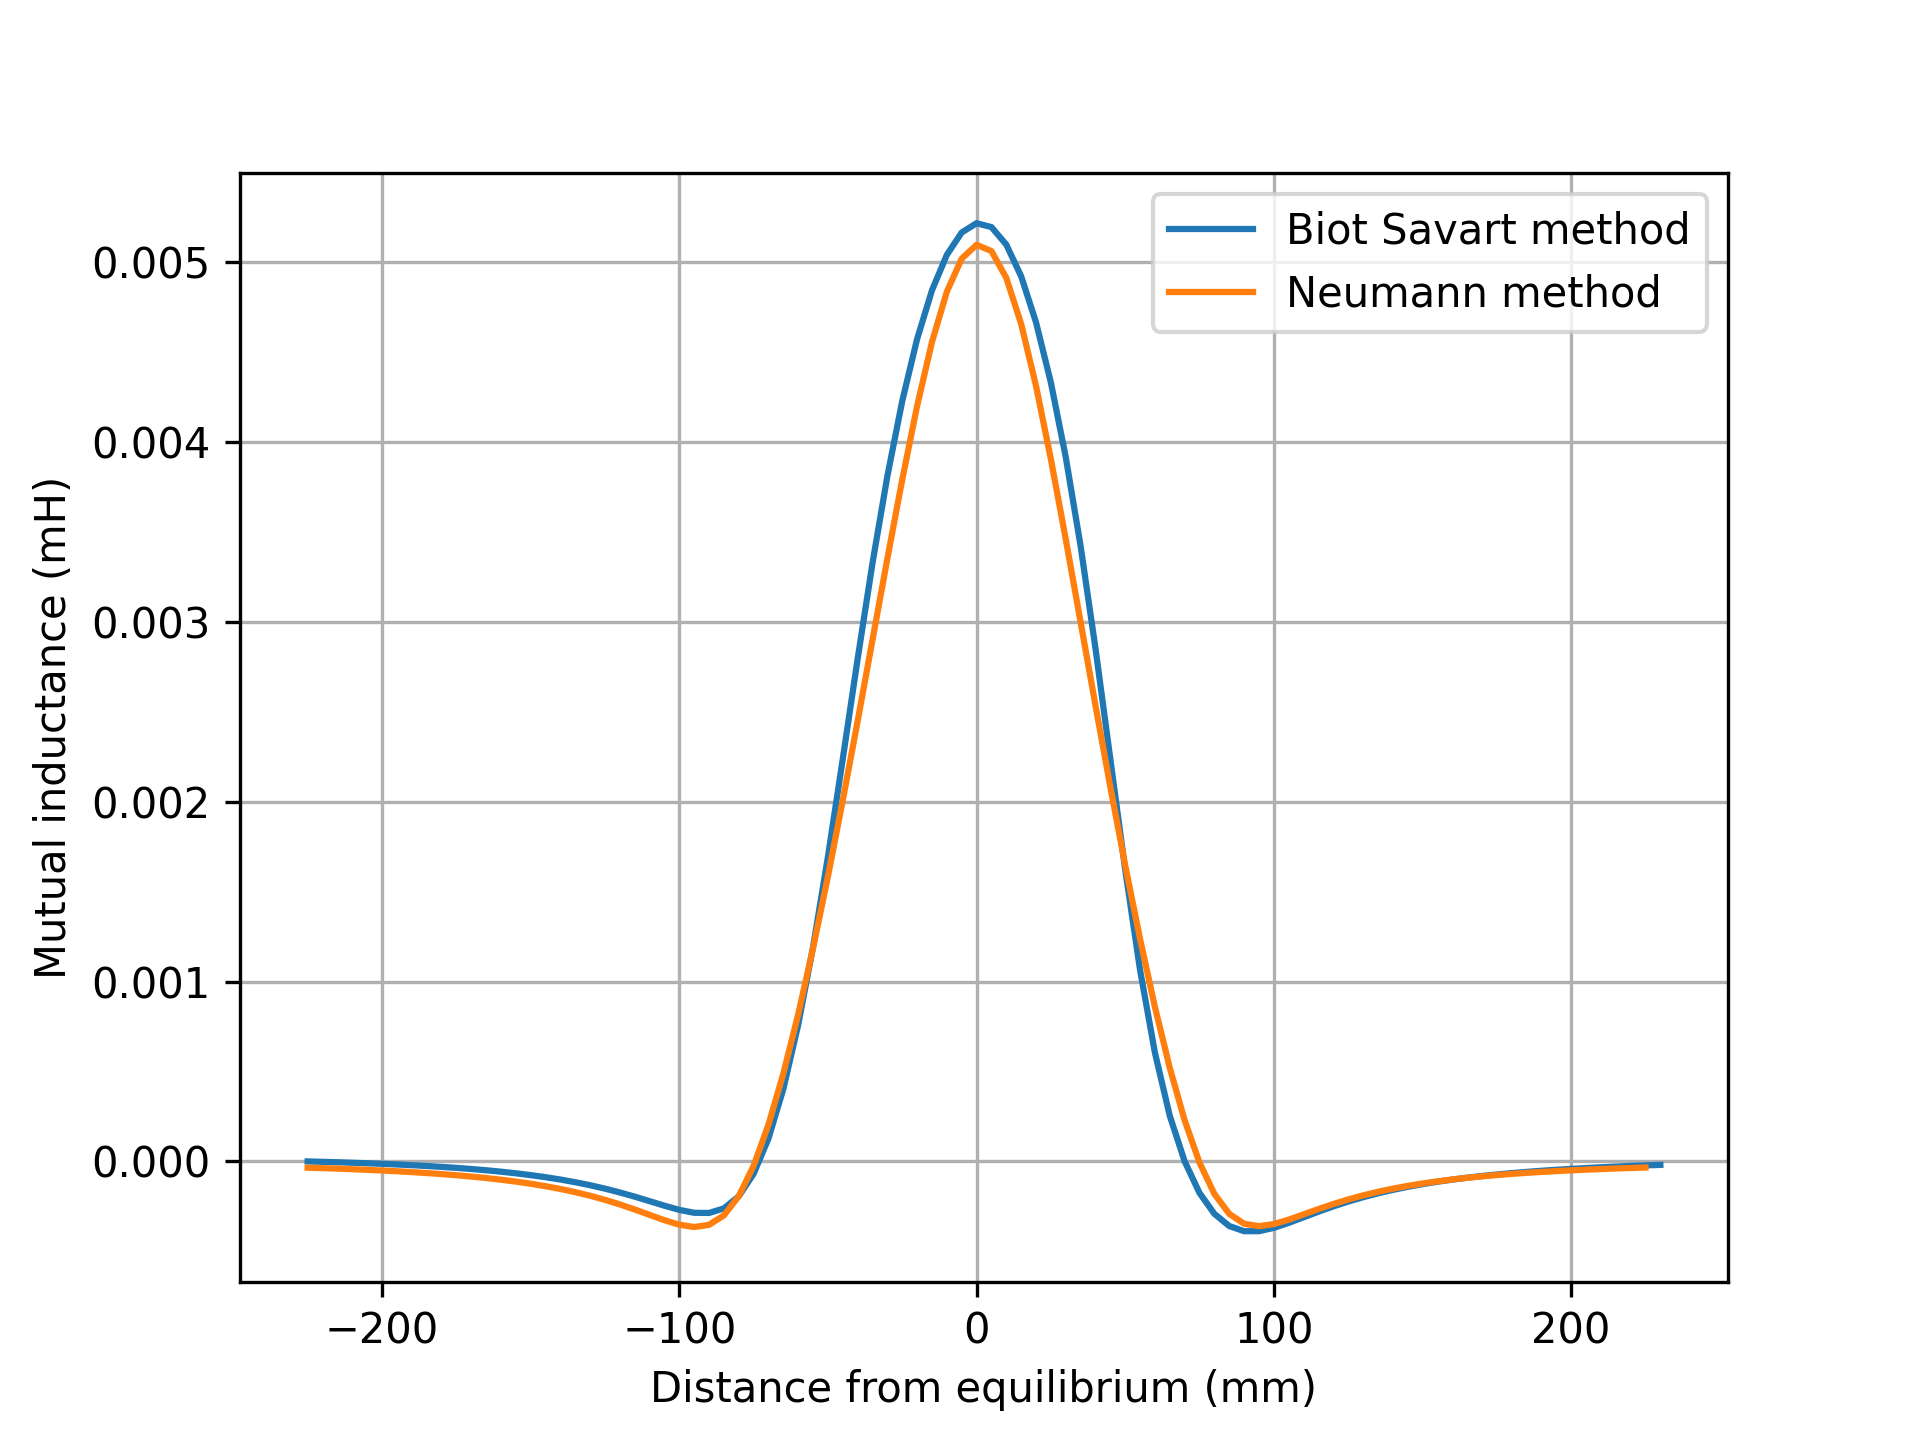
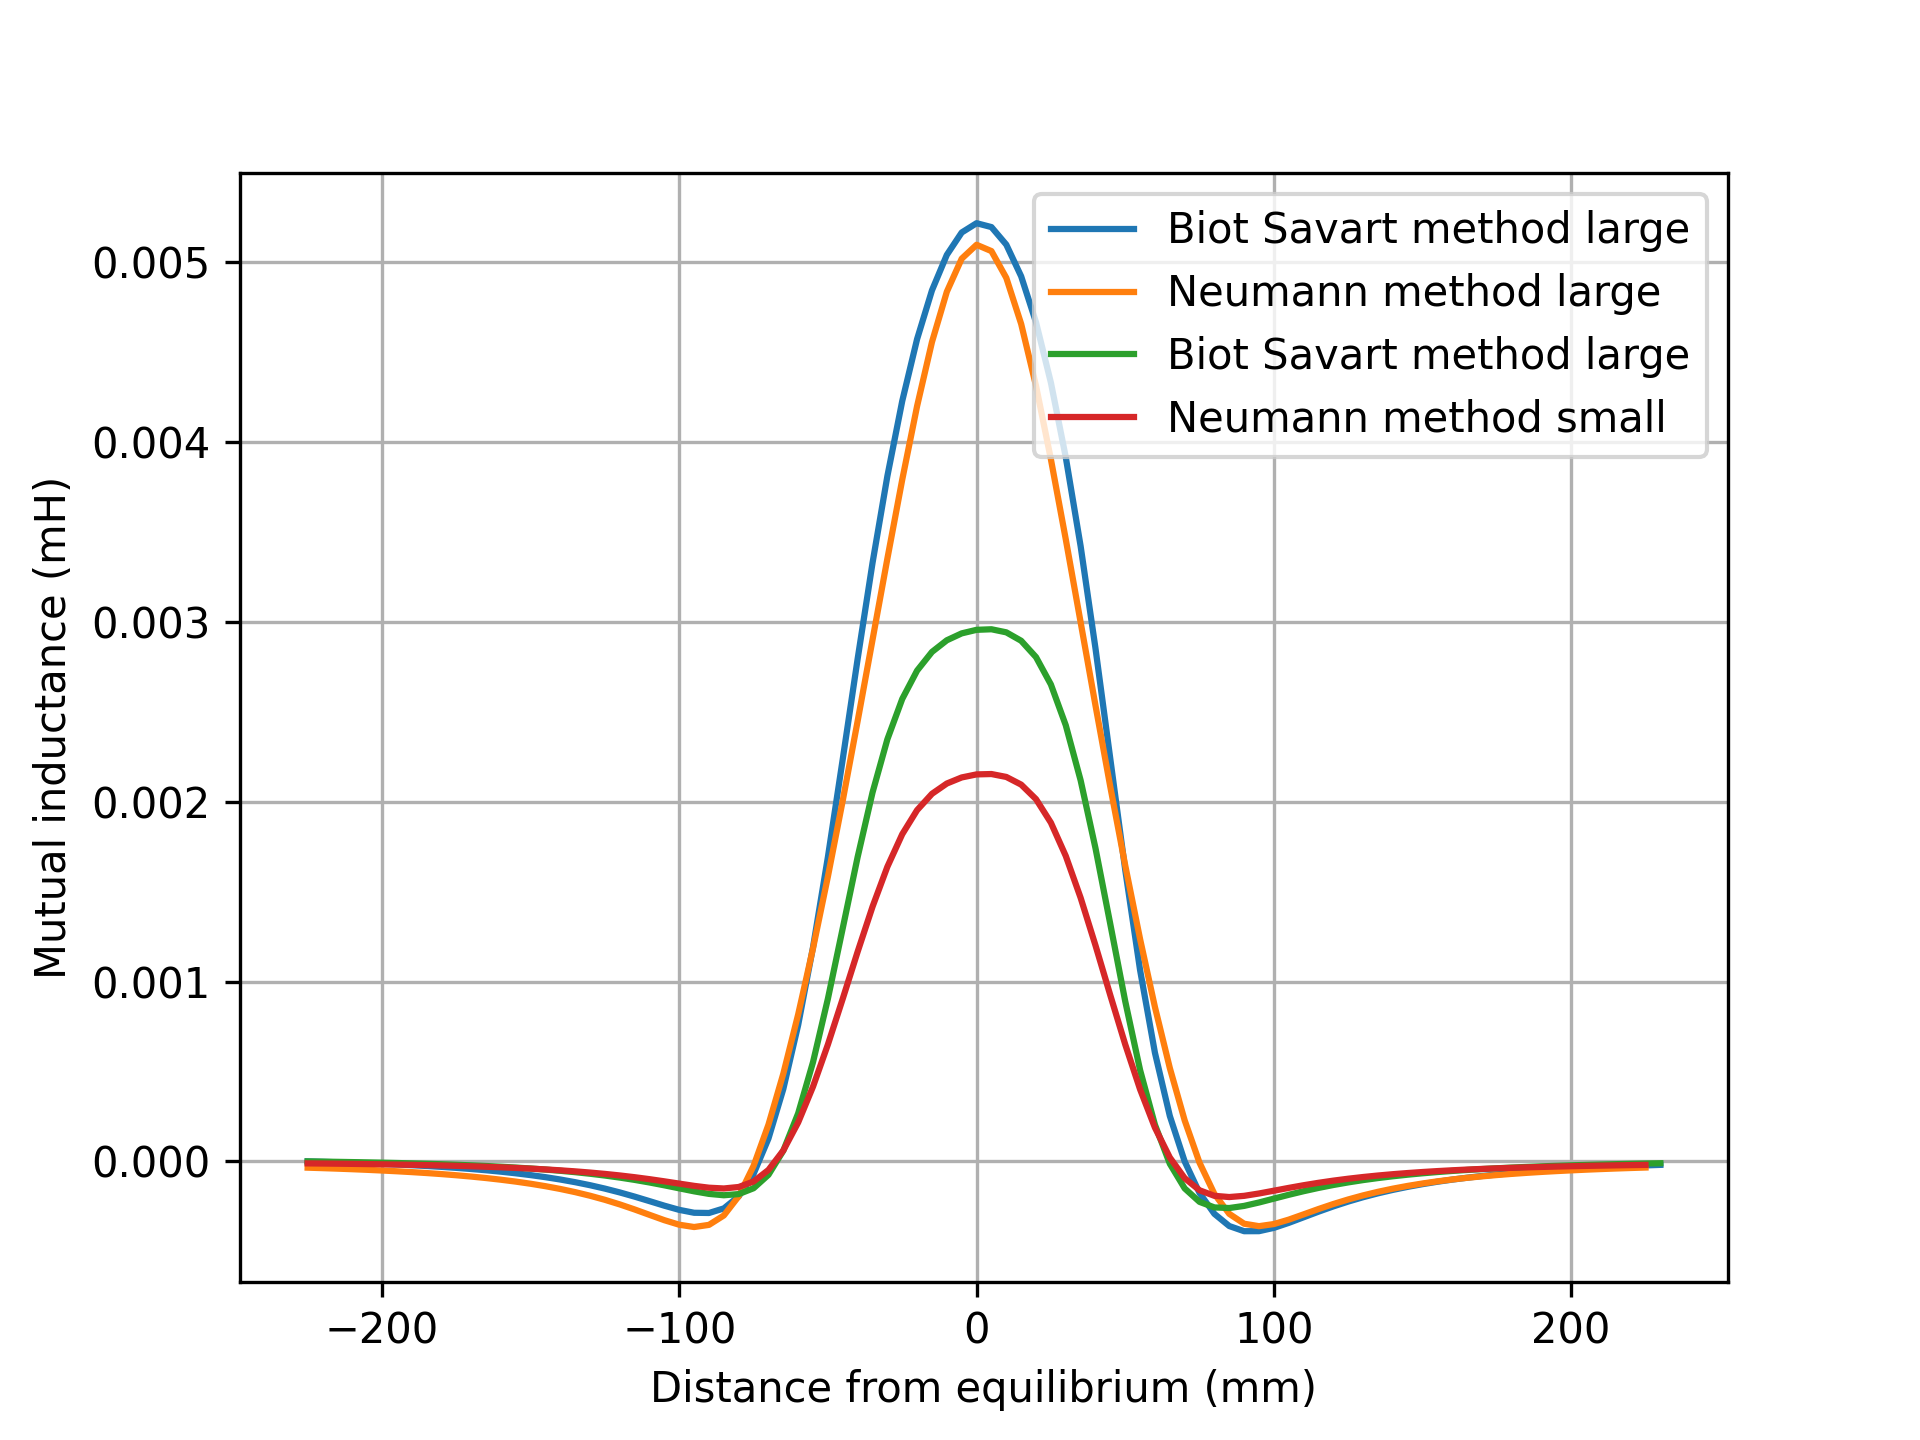
Update to include small

diff --git a/plot.py b/plot.py
@@ -1,0 +1,39 @@
+#!/usr/bin/env python3
+# -*- coding: utf-8 -*-
+"""
+Created on Wed May 26 15:14:38 2021
+
+@author:
+   ___  _ ____             __
+  / _ \(_) / /__ ___      / /  ___ ___
+ / // / / / / -_) _ \    / /__/ -_) -_)
+/____/_/_/_/\__/_//_/   /____/\__/\__/
+
+"""
+
+import matplotlib.pyplot as plt
+import numpy as np
+
+
+def extract(ID,rowsToSkip):
+    x,y = np.loadtxt(ID, skiprows=rowsToSkip, delimiter=',', unpack=True,usecols=[0,1])
+    return x,y
+
+BiotSavartD, BiotSavartM = extract('Data/BSlargeR.csv', 1)
+compD,compM = extract('Data/R1.csv', 1)
+BSDsmall,BSMsmall = extract('Data/BSsmallR.csv',1)
+compDsmall,compMsmall = extract('Data/R2.csv',1)
+
+fig = plt.figure()
+ax = plt.subplot(111)
+ax.grid()
+ax.set_xlabel('Distance from equilibrium (mm)')
+ax.set_ylabel('Mutual inductance (mH)')
+ax.plot(BiotSavartD,BiotSavartM,label = 'Biot Savart method large')
+ax.plot(compD,compM,label = 'Neumann method large')
+ax.plot(BSDsmall,BSMsmall,label='Biot Savart method large')
+ax.plot(compDsmall,compMsmall,label='Neumann method small')
+ax.legend(loc = 'upper right')
+
+# plt.show()
+plt.savefig('NeumannVsBiotSavart.png',dpi=300)

diff --git a/BSMI.py b/BSMI.py
@@ -27,8 +27,8 @@ mu = 4*pi*1e-7
 # Initial conditions
 I = 1/300           # (A) current through the transmitting coil
 radiusTrans = 47.5  # (mm) radius of transmitting coil
-radiusRec   = 38.5  # (mm) radius of receiving coil
-Nr = 12.5           # amount of turns in receiving coil
+radiusRec   = 23.5  # (mm) radius of receiving coil
+Nr = 18           # amount of turns in receiving coil
 Nt = 10.5           # amount of turns in transmitting coil
 zPos =  23          # (mm) Z distance between coils
 tHeight = 4.75       # (mm) The height of the transmitting coil
@@ -127,10 +127,10 @@ def BiotSavart(object,position):
 
 
 # Create a file for the Data
-name = 'BSlargeR'
+name = 'BSsmallR'
 with open('/home/dillen/University/Python/SummerSimulation/Data/%s.csv'%name,mode='w') as file:
     writer = csv.writer(file)
-    writer.writerow(['Distance (mm)','Mutual Inductance (mH)','Large coil'])
+    writer.writerow(['Distance (mm)','Mutual Inductance (mH)','Small coil'])
 
 
 

diff --git a/MathPlottting.py b/MathPlottting.py
@@ -67,7 +67,7 @@ Z2 = R0imp+R2imp+L2imp+C2imp              #Total inductance of circuit 2
 
 
 
-I1 = imaginaryVs/(Z1+((ω*M)**2)/Z2)           #Current in circuit 1
+I1 = imaginaryVs/(Z1+((ω*M)**2)/Z2)          #Current in circuit 1
 I2 = (1j*ω*M*imaginaryVs)/(Z1*Z2+((ω*M)**2))  #Current in circuit 2
 
 
